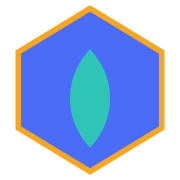
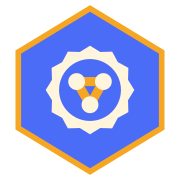
Install Jerry-approved product marks and desk carousel image (#39)

Changed region(s): [[0.25, 0.25, 0.75, 0.8333]]

diff --git a/rug-pulled.html b/rug-pulled.html
@@ -50,6 +50,7 @@
       <section class="rp-captures site-carousel" aria-label="Rug Pulled! screenshots">
         <div class="carousel-heading"><h2>Screenshots</h2><div class="carousel-controls" hidden><button type="button" data-prev aria-label="Previous screenshot">←</button><button type="button" data-pause aria-pressed="false">Pause</button><button type="button" data-next aria-label="Next screenshot">→</button></div></div>
       <div class="rp-capture-grid screen-track" tabindex="0" aria-label="Rug Pulled! screenshots; scroll to explore">
+        <figure><a href="assets/media/rug-pulled/00-furnished-desk-home.png"><img src="assets/media/rug-pulled/00-furnished-desk-home.png" width="1920" height="1080" loading="lazy" alt="Rug Pulled! home screen showing a furnished trading desk with two monitors, a chair, desk items, and career controls"></a><figcaption>Your desk</figcaption></figure>
         <figure><a href="assets/media/rug-pulled/01-trading-desk.png"><img src="assets/media/rug-pulled/01-trading-desk.png" width="1920" height="1080" loading="lazy" alt="Fresh-career training desk before the first order, with market charts and order controls"></a><figcaption>Trading screen</figcaption></figure>
         <figure><a href="assets/media/rug-pulled/02-open-position.png"><img src="assets/media/rug-pulled/02-open-position.png" width="1920" height="1080" loading="lazy" alt="Training desk after a market buy, with an open position on the chart and its entry details"></a><figcaption>Position open</figcaption></figure>
         <figure><a href="assets/media/rug-pulled/03-morning-review.png"><img src="assets/media/rug-pulled/03-morning-review.png" width="1920" height="1080" loading="lazy" alt="Lunch break Morning review with frozen morning orders from the day played"></a><figcaption>Morning review</figcaption></figure>
@@ -57,7 +58,7 @@
         <figure><a href="assets/media/rug-pulled/05-notebook-prices.png"><img src="assets/media/rug-pulled/05-notebook-prices.png" width="1920" height="1080" loading="lazy" alt="Trader Notebook Prices tab showing recorded prices from the completed day"></a><figcaption>Notebook Prices</figcaption></figure>
         <figure><a href="assets/media/rug-pulled/06-notebook-fills.png"><img src="assets/media/rug-pulled/06-notebook-fills.png" width="1920" height="1080" loading="lazy" alt="Trader Notebook Fills tab showing actual market fills from that day"></a><figcaption>Notebook Fills</figcaption></figure>
       </div>
-      <div class="carousel-dots" aria-label="Choose a screenshot" hidden><button type="button" data-slide="0" aria-label="Screenshot 1" aria-current="true">1</button><button type="button" data-slide="1" aria-label="Screenshot 2">2</button><button type="button" data-slide="2" aria-label="Screenshot 3">3</button><button type="button" data-slide="3" aria-label="Screenshot 4">4</button><button type="button" data-slide="4" aria-label="Screenshot 5">5</button><button type="button" data-slide="5" aria-label="Screenshot 6">6</button></div>
+      <div class="carousel-dots" aria-label="Choose a screenshot" hidden><button type="button" data-slide="0" aria-label="Screenshot 1" aria-current="true">1</button><button type="button" data-slide="1" aria-label="Screenshot 2">2</button><button type="button" data-slide="2" aria-label="Screenshot 3">3</button><button type="button" data-slide="3" aria-label="Screenshot 4">4</button><button type="button" data-slide="4" aria-label="Screenshot 5">5</button><button type="button" data-slide="5" aria-label="Screenshot 6">6</button><button type="button" data-slide="6" aria-label="Screenshot 7">7</button></div>
       </section>
     </section>
     <section class="rug-copy" aria-label="About Rug Pulled">

diff --git a/carousel.css b/carousel.css
@@ -26,6 +26,7 @@
 }
 .site-carousel .screen-track figcaption { padding: 10px 4px 2px; color: var(--paper); font-size: 15px; font-weight: 700; }
 .site-carousel .carousel-dots { display: flex; justify-content: center; flex-wrap: wrap; gap: 10px; margin-top: 16px; }
+.rp-captures .carousel-dots { gap: 4px; }
 .site-carousel .carousel-dots button { min-width: 44px; min-height: 44px; padding: 2px 8px; font-size: 14px; }
 .site-carousel .carousel-dots [aria-current="true"] { border-color: var(--lime); background: var(--lime); color: var(--lime-ink); }
 @media (max-width: 700px) {

diff --git a/assets/pubmint/PROVENANCE.md b/assets/pubmint/PROVENANCE.md
@@ -1,7 +1,6 @@
-PubMint brand assets copied unchanged from the local PubMint repository:
+Jerry selected A's PubMint concept 06, “Community seal,” on 2026-10-14. The asset filenames stay stable so the home card, PubMint page, favicon, and Open Graph image use the approved mark without markup changes.
 
[3 lines of base64/hex data omitted]
+Source: CollAgents `a-pubmint-mark-final-20261014` at `fc657c835c6e9445c85c0e07a420cc99478e1935`, `inbox/A-pubmint-mark-final-20261014/`.
[1 lines of base64/hex data omitted]
 
 The existing `assets/brand/pubmint-mark.svg` is an older, different mark and is retained for historical compatibility; current PubMint page/card references use the assets here.

diff --git a/assets/marks/README.md b/assets/marks/README.md
@@ -1,5 +1,7 @@
-`stresslab.svg`, `avoiding-jayms.svg`, and `rug-pulled-live.svg` are transparent
-pending files so the site makes no missing-image requests. A can replace each
-file at the same path with approved SVG art. The home card loader shows the
-mark only after the replacement decodes; a file with `data-pending-mark="true"`
-stays hidden. Existing Rug Pulled! and PubMint marks use their current paths.
+Jerry selected these home-card marks on 2026-10-14. Each SVG replaces its existing pending-mark placeholder at the same path; `product-marks.mjs` reveals it after the image loads.
+
[3 lines of base64/hex data omitted]
+
+The approved SVG bytes are unchanged. Existing Rug Pulled! and PubMint marks retain their current paths.
